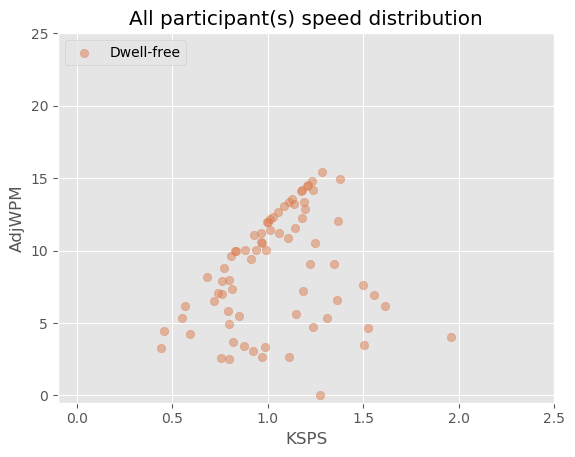
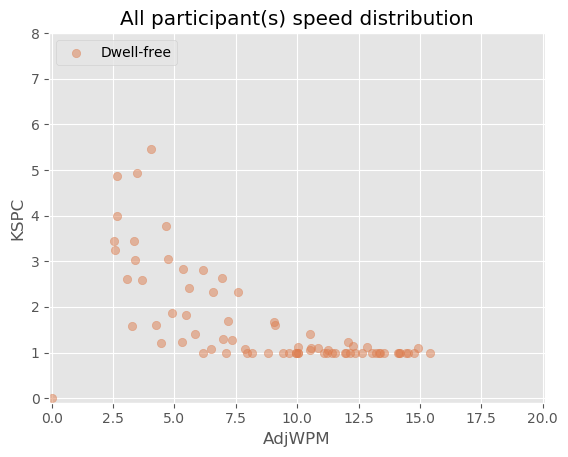
User study, generating plots for paper writing.

diff --git a/User_Study/TestRd2/Data-Processing/Data-Processing-Rd2.py b/User_Study/TestRd2/Data-Processing/Data-Processing-Rd2.py
@@ -38,7 +38,7 @@ def readSentences(argFilename, argSentences):
 				sentences[-1].uncErrRate = float(row[9])
 				sentences[-1].corErrRate = float(row[10])				
 				sentences[-1].keyboard = ord(argFilename[4])-65
-				sentences[-1].ksps = float(row[6])
+				sentences[-1].ksps = float(row[8])
 				sentences[-1].utilBand = float(row[14])
 
 def clearCache():
@@ -97,7 +97,7 @@ def plotsHub():
 		plotKspsVsAccuracy()
 	elif 'Utilized Bandwidth' == contrMetric.value:
 		plotUtilizedBandwidth()	
-	elif 'AdjWPM vs. KSPS' == contrMetric.value:
+	elif 'AdjWPM vs. KSPC' == contrMetric.value:
 		plotSpeedVsSpeed()
 
 def filter():
@@ -330,22 +330,22 @@ def plotUtilizedBandwidth():
 def plotSpeedVsSpeed():
 	plotAdjWPM = perPtcpAdjWpm
 	plotKSPS = perPtcpKsps
-	xKSPS, yAdjWPM = ([[], [], []] for i in range(2))
+	yKSPC, xAdjWPM = ([[], [], []] for i in range(2))
 	for index in range(len(plotAdjWPM)):
 		if len(plotAdjWPM[index]):
 			for indexSub in range(len(plotAdjWPM[index])):
-				xKSPS[index%amountKeyboard].append(plotKSPS[index][indexSub])
-				yAdjWPM[index%amountKeyboard].append(plotAdjWPM[index][indexSub])
+				yKSPC[index%amountKeyboard].append(plotKSPS[index][indexSub])
+				xAdjWPM[index%amountKeyboard].append(plotAdjWPM[index][indexSub])
 	fig, ax = plt.subplots()
 	# for i in range(amountKeyboard):
 	# 	plt.scatter(xKSPS[i], yAdjWPM[i], color=color[i], label=labelKeybd[i], alpha=0.5)
 	i=2
-	plt.scatter(xKSPS[i], yAdjWPM[i], color=color[i], label=labelKeybd[i], alpha=0.5)
-
+	plt.scatter(xAdjWPM[i], yKSPC[i], color=color[i], label=labelKeybd[i], alpha=0.5)
+	print("lala")
 	ax.legend(loc='upper left')
-	ax.set(title=contrPtcp.value+' participant(s)'+' speed distribution', xlabel='KSPS', ylabel='AdjWPM')
-	plt.ylim(-0.5, 25)
-	plt.xlim(-0.1,2.5)
+	ax.set(title=contrPtcp.value+' participant(s)'+' speed distribution', xlabel='AdjWPM', ylabel='KSPC')
+	plt.ylim(-0.1, 8)
+	plt.xlim(-0.1,20.1)
 	fig.savefig('plotAdjWPMvsKSPS'+contrPtcp.value+'.png', bbox_inches='tight')
 
 
@@ -390,7 +390,7 @@ if __name__=="__main__":
 		disabled=False
 		)
 	contrMetric = widgets.ToggleButtons(
-		options=['Speed', 'Accuracy', 'Speed & Accuracy', 'Learning Curve', 'Speed Vs. Accuracy', 'KSPS Vs. Accuracy', 'Utilized Bandwidth', 'AdjWPM vs. KSPS'],
+		options=['Speed', 'Accuracy', 'Speed & Accuracy', 'Learning Curve', 'Speed Vs. Accuracy', 'KSPS Vs. Accuracy', 'Utilized Bandwidth', 'AdjWPM vs. KSPC'],
 		description='Metric: ',
 		value='Utilized Bandwidth',
 		disabled=False
